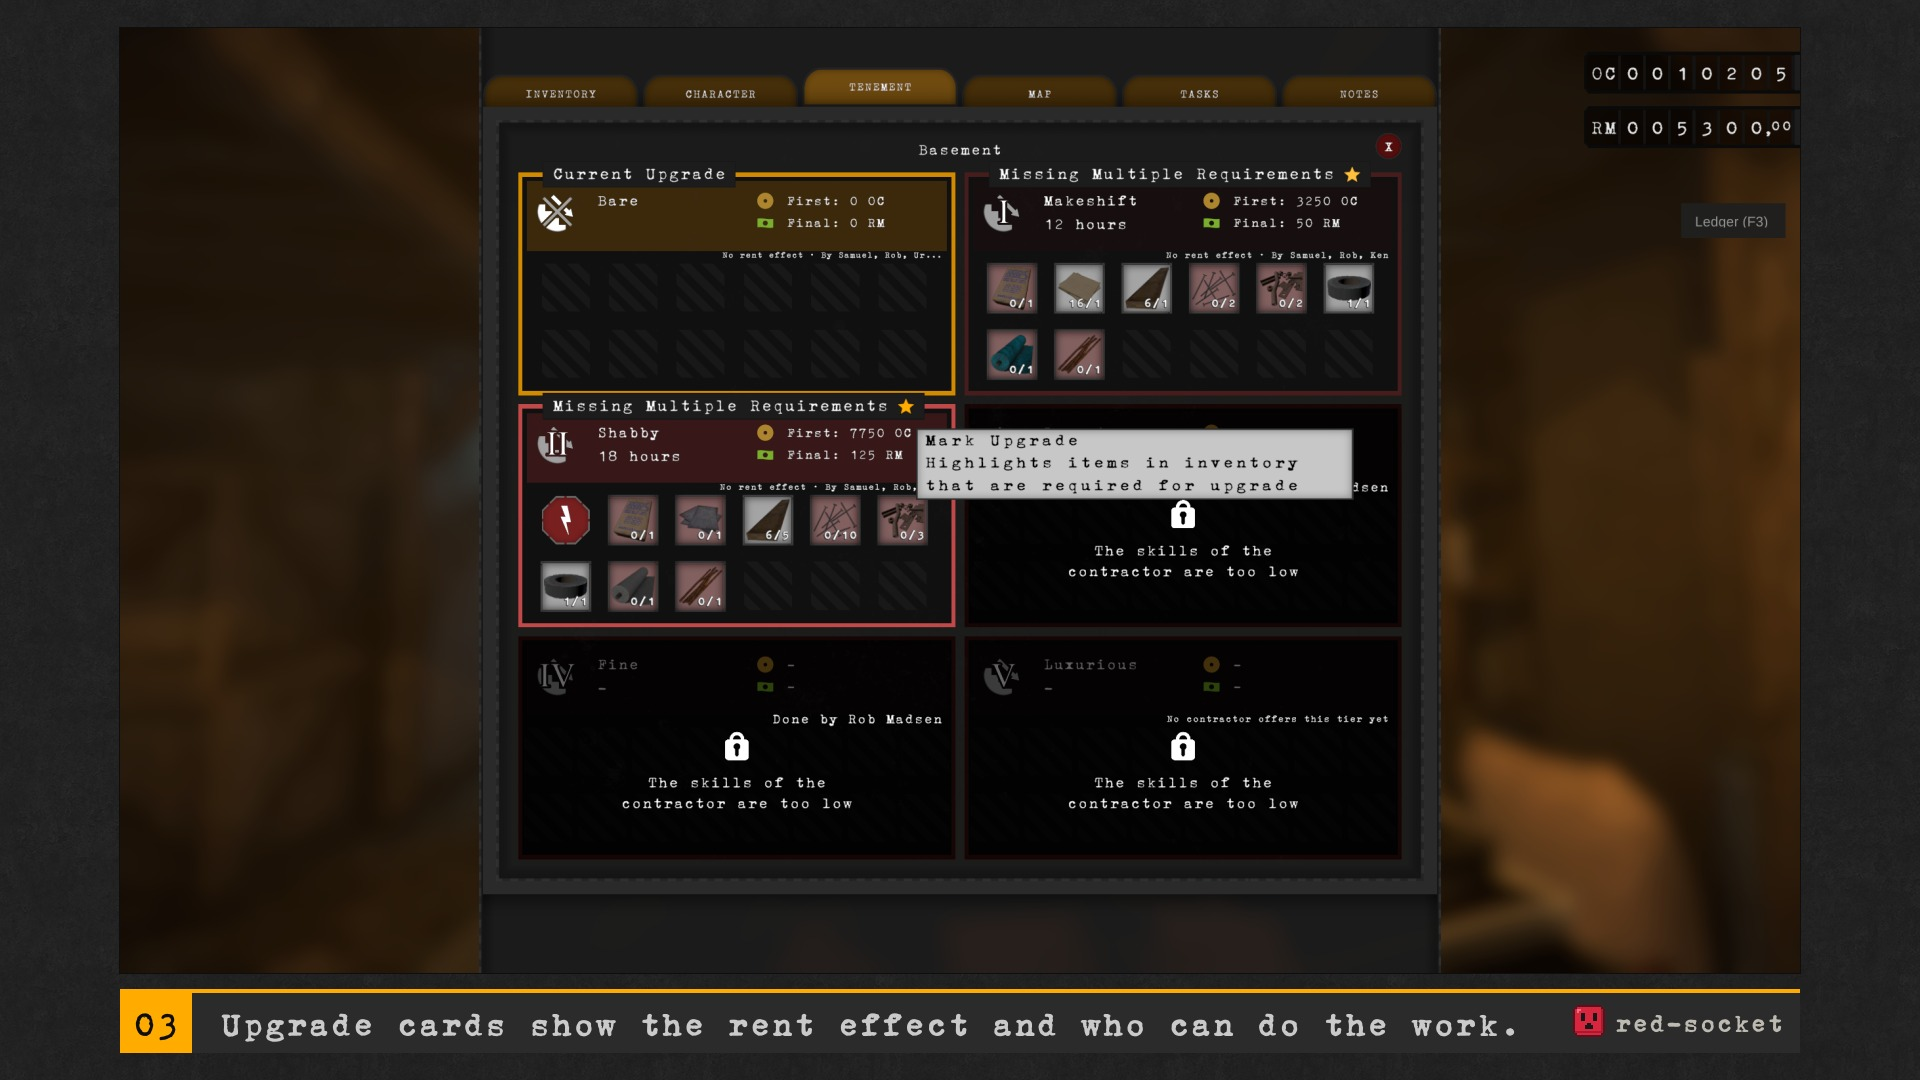
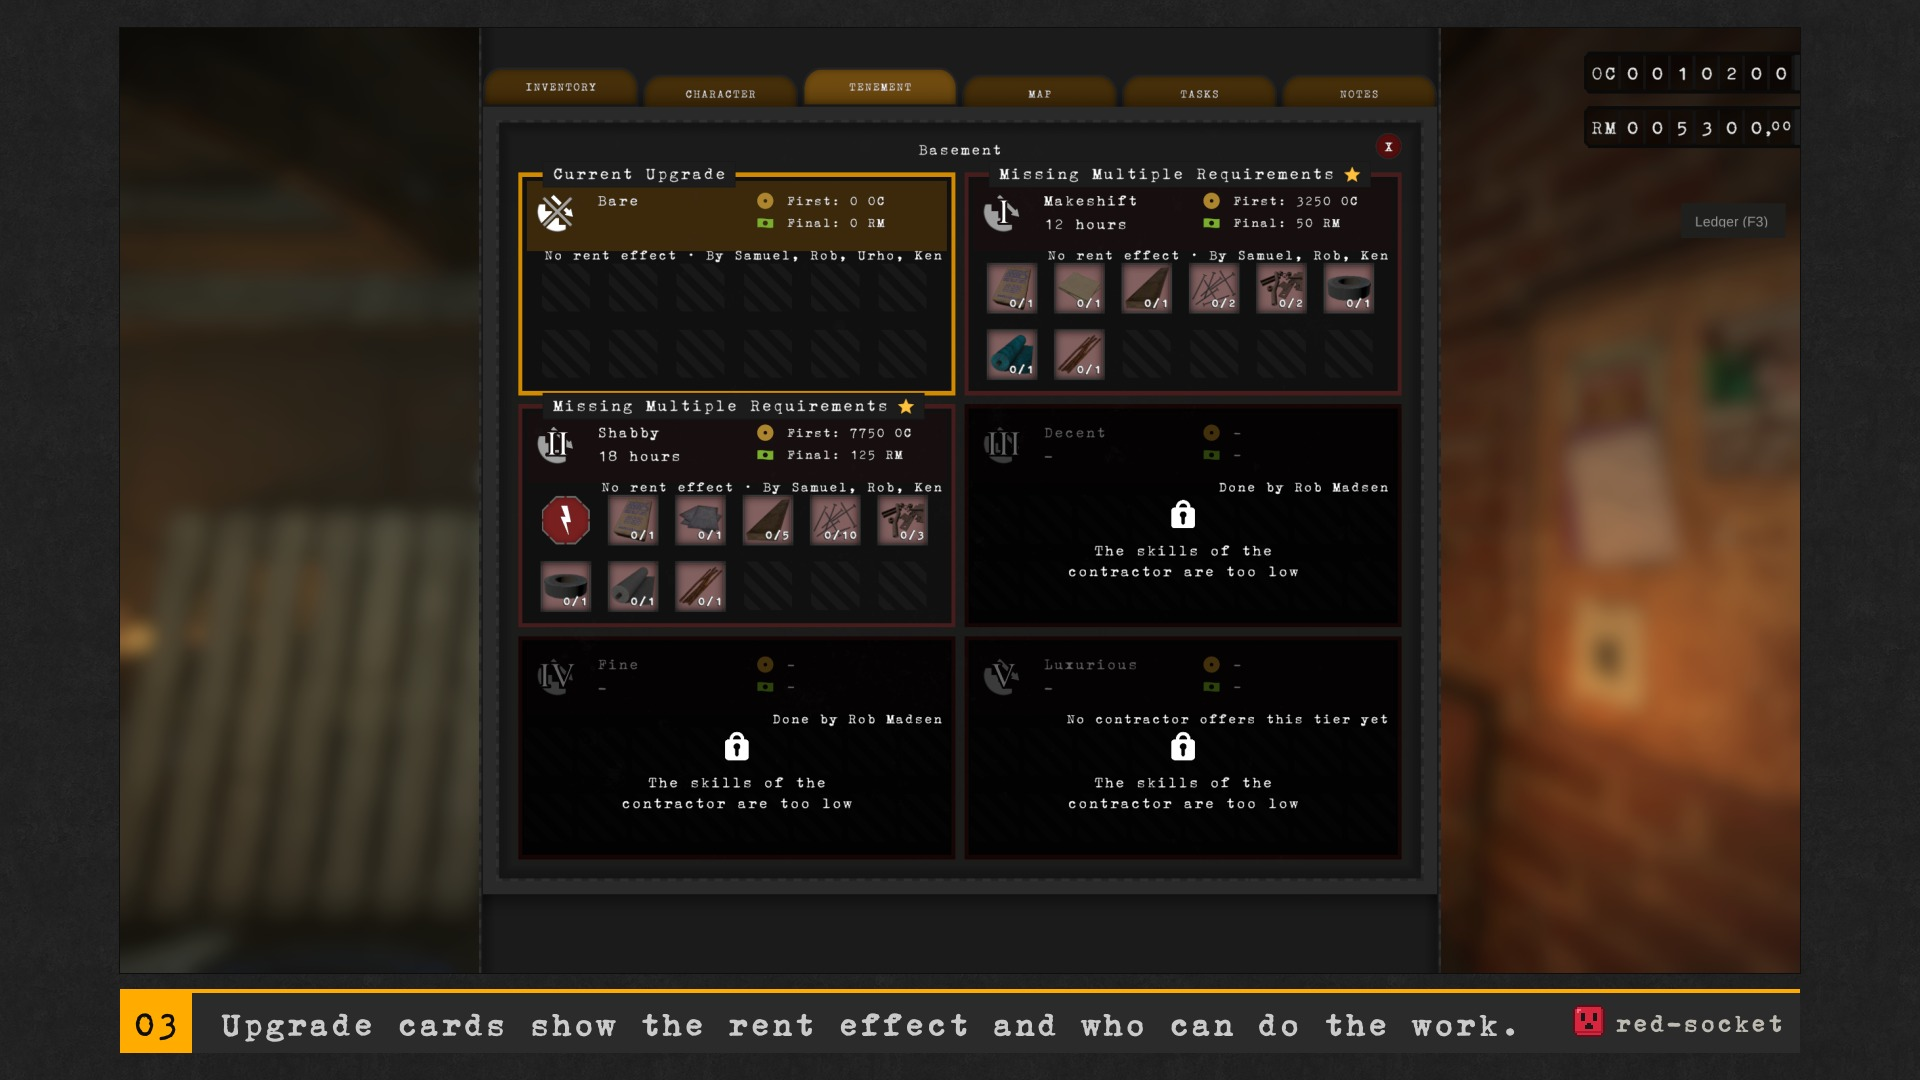
docs(BetterTenement): re-render gallery 03 and 05 from new captures

diff --git a/mods/BetterTenement/art/NOTES.md b/mods/BetterTenement/art/NOTES.md
@@ -4,9 +4,9 @@
 
 Render with `mods/BetterTenement/art/render.sh` (wraps `art/render.py`; `SHOTS=dir` points it at another folder, `PLACEHOLDER=1 OUT=dir` checks text fit without screenshots). Outputs go to `nexus/`: `header.jpg` (1400×400), `thumbnail.jpg` (1920×1080) and one `gallery-NN.jpg` per shot, in the order below. Template elements (fonts, grain, elevation line art, logo) come from the kit: `art/SOURCES.md` at the repo root. Captions and the tagline went through the humanizer skill on 2026-11-15.
 
-Screenshots are the user's own captures from a test character at 2560×1440 (system screenshots), UI scale 1.0, kept outside git in `~/Pictures/obenseuer-nexus/BetterTenement/` (copied from `~/Pictures/Screenshots/`). The test IDs refer to `.internal/test-plan.md`.
+Screenshots are 2560×1440 captures at UI scale 1.0: the user's own system screenshots from a test character, except `bt-card.png` and `bt-doctor.png`, which are game-harness captures (2026-11-19). All are kept outside git in `~/Pictures/obenseuer-nexus/BetterTenement/` (copied from `~/Pictures/Screenshots/`). The test IDs refer to `.internal/test-plan.md`.
 
-**Status: rendered 2026-11-16.** All required shots are in; the optional `bt-stolen` frame is skipped until someone captures it.
+**Status: rendered 2026-11-16; gallery-03 and gallery-05 re-rendered 2026-11-19 from new harness captures.** All required shots are in; the optional `bt-stolen` frame is skipped until someone captures it.
 
 Tagline: "Landlording without the bookkeeping." Key shot (header and thumbnail): `bt-key.png`, a gameplay screenshot with the HUD hidden (no UI windows).
 
@@ -24,9 +24,9 @@ Tagline: "Landlording without the bookkeeping." Key shot (header and thumbnail):
 | `header.jpg`, `thumbnail.jpg` | `bt-key.png`, copy of `Screenshot From 2026-11-16 03-13-50.png`; the tenement block from the street at dusk, HUD hidden |
 | `gallery-01.jpg` | `bt-chest-before.png`, copy of `Screenshot From 2026-11-15 21-48-26.png` |
 | `gallery-02.jpg` | `bt-chest.png`, copy of `Screenshot From 2026-11-15 21-48-34.png` |
-| `gallery-03.jpg` | `bt-card.png`, copy of `Screenshot From 2026-11-15 21-49-30.png` |
+| `gallery-03.jpg` | `bt-card.png`, a headless harness capture from 2026-11-19 (`shot --mode full`, 2560×1440, HUD visible); Samuel Jonasson's contractor menu in Interior Tenement Deekula A, Tenement tab on the Basement panel, Makeshift and Shabby starred, Ledger collapsed to its button, CardLineOffset `20,-80`; material counts read 0/n (the test character carries no materials). The 2026-11-15 capture is kept as `bt-card-old.png` |
 | `gallery-04.jpg` | `bt-ledger.png`, copy of `Screenshot From 2026-11-15 21-48-53.png` |
-| `gallery-05.jpg` | `bt-doctor.png`, copy of `Screenshot From 2026-11-16 03-33-33.png`; Apartment 1 with its leftovers outlined |
+| `gallery-05.jpg` | `bt-doctor.png`, a headless harness capture from 2026-11-19 (`shot --mode full`, 2560×1440, HUD visible); the Doctor (F4) on Apartment 3 in Interior Player Tenement after examining it, leftovers listed with the first row selected and amber outlines through the wall. The 2026-11-16 capture is kept as `bt-doctor-old.png` |
 | all | house-style kit templates (`art/templates/`), fonts and textures listed in `art/SOURCES.md` |
 
 ## In-game UI colours
